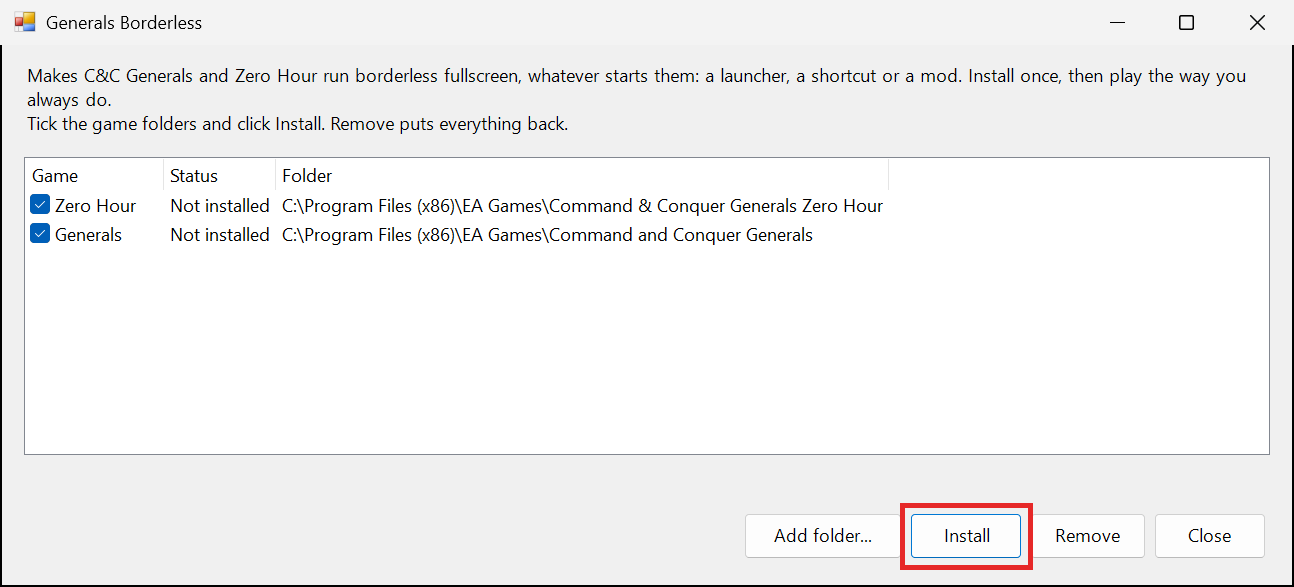
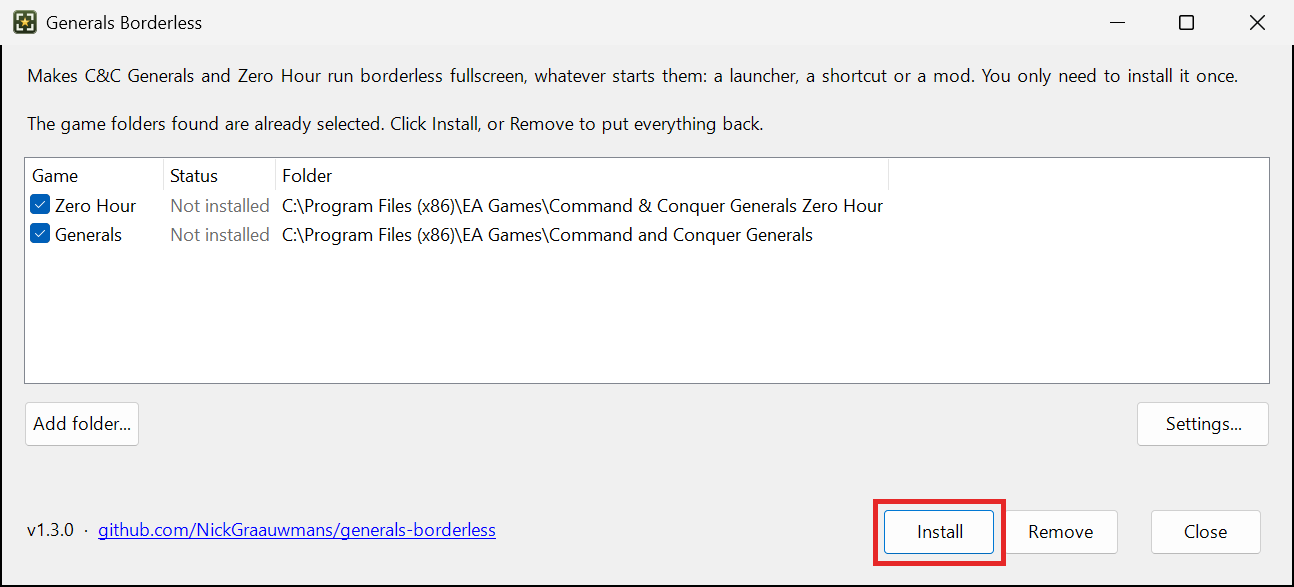
Changes to README

diff --git a/README.md b/README.md
@@ -24,12 +24,12 @@ It is also nice if you simply like borderless fullscreen: alt-tab is quick, a se
 
 1. Download `GeneralsBorderless.zip` from [Releases](../../releases/latest) and unzip it.
 2. Run `GeneralsBorderless.exe`. Click **Yes** when Windows asks for admin rights (the game is in Program Files).
-3. It shows the game folders it found. Leave them ticked and click **Install**.
+3. It shows the game folders it found, already selected. Click **Install**.
    Is your game not in the list? Click **Add folder...** and pick your game folder. A folder that holds both Generals and Zero Hour works too.
 
    ![Click Install](images/install.png)
 
-4. The folders now say **Installed**. Close it and play like you always do.
+4. The folders now say **Installed**. Close it and start the game.
 
    ![The folders say Installed](images/installed.png)
 
@@ -37,7 +37,7 @@ Windows may say the app is unknown, because it isn't signed. Click **More info**
 
 ## Remove
 
-Run `GeneralsBorderless.exe` again, tick the folders and click **Remove**. Your game is back to how it was.
+Run `GeneralsBorderless.exe` again and click **Remove** (it works on the selected folders). Your game is back to how it was.
 
 ![Click Remove](images/remove.png)
 
@@ -63,12 +63,13 @@ Did the game folder already have a `dinput8.dll` from another tool? Then the pat
 
 ## Settings
 
-The game folder also gets `GeneralsBorderless.ini`. You can change it with Notepad:
+Run `GeneralsBorderless.exe` and click **Settings...** (it works on the selected folders). The changes take effect the next time the game starts. The settings are stored in `GeneralsBorderless.ini` in the game folder:
 
 | Setting | What it does |
 | --- | --- |
 | `Enabled=0` | Turns the patch off without removing it. The game starts like before. |
-| `ForceNativeResolution=0` | Lets you pick your own resolution in the game's options. A lower resolution is shown in the middle of the screen, not stretched. |
+| `ForceNativeResolution=0` | Lets you pick your own resolution in the game's options. A lower resolution is scaled up to fill the screen, so the menus and buttons get bigger. If its shape differs from your screen (like 4:3), you get black bars on the sides instead of a stretched picture. |
+| `ScaleToScreen=0` | Together with `ForceNativeResolution=0`: shows a lower resolution at its own size in the middle of the screen instead of scaling it up (box mode). |
 | `LockCursor=0` | Lets the mouse leave the game window. |
 
 ## Problems?
